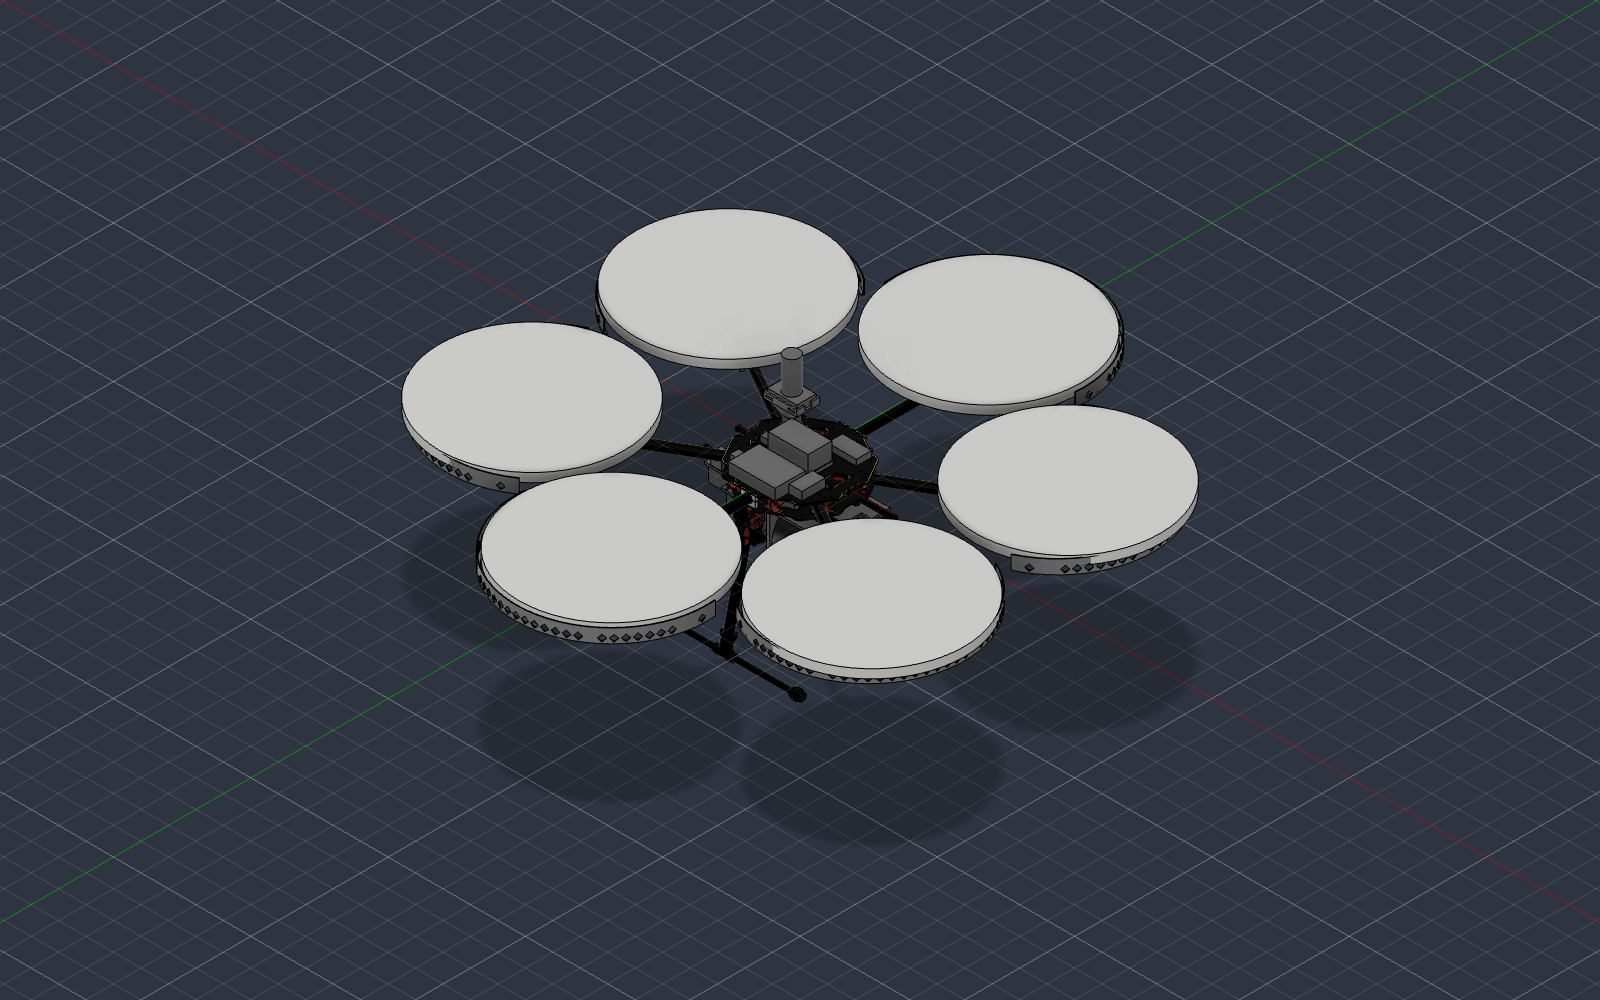
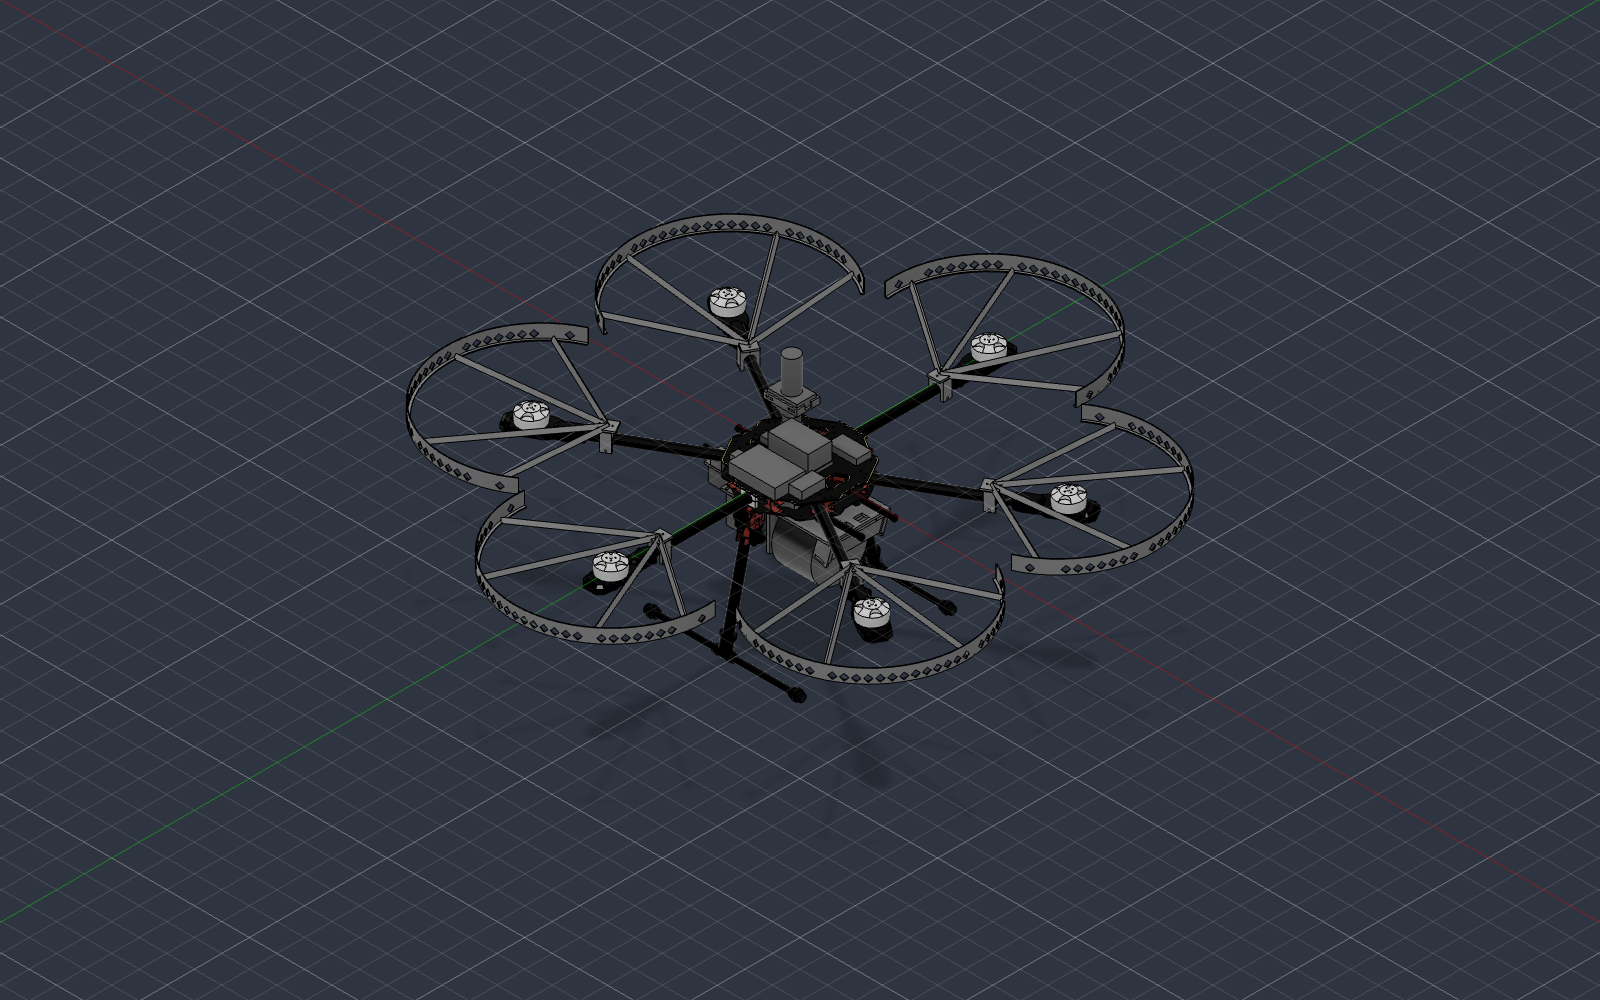
readme with pictures of every part and both drones

diff --git a/README.md b/README.md
@@ -1,70 +1,71 @@
 # Drone Construction
 
-LiDRON's drone models and build requirements.
+LiDRON's drone models and the parts we 3D print for them. Two drones: Widow (test drone) and Huntsman (carries the LiDAR).
 
-| I want to... | Go to |
-|---|---|
-| Print a part | `3D Models/Widow/Printed Parts/<part>/`, open the `.3mf` in Anycubic Slicer Next |
-| See the whole drone | `3D Models/Widow/Full Drone/widow-full-drone.f3d`, open in Fusion |
-| Know Widow's parts, sizes and weights | [`3D Models/Widow/README.md`](3D%20Models/Widow/README.md) |
-| Know Huntsman's parts, sizes, weights and LiDAR wiring | [`3D Models/Huntsman/README.md`](3D%20Models/Huntsman/README.md) |
-| Know what to build next | [Issues](https://github.com/LiDRON7/Drone-Construction/issues): one user story or task each |
+## Widow
 
-<img src="3D%20Models/Widow/Full%20Drone/widow-full-drone-preview.png" width="600" alt="Widow, the full drone model">
+Storm Drone 6 V3. Parts, sizes and weights: [Widow README](3D%20Models/Widow/README.md).
 
-## Printed parts (Widow)
+<img src="3D%20Models/Widow/Full%20Drone/widow-full-drone-preview.png" width="420" alt="Widow, the whole drone"> <img src="3D%20Models/Widow/widow-top-view.png" width="300" alt="Widow from above, arms numbered">
 
-| | Part | Print | Material |
+| Picture | Part | Print | What it does |
 |---|---|---|---|
-| <img src="3D%20Models/Widow/Printed%20Parts/Propeller%20Guard/propeller-guard-preview.png" width="160"> | [Propeller Guard](3D%20Models/Widow/Printed%20Parts/Propeller%20Guard) | 6 | PLA or PETG |
-| <img src="3D%20Models/Widow/Printed%20Parts/Landing%20Leg/landing-leg-preview.png" width="160"> | [Landing Leg](3D%20Models/Widow/Printed%20Parts/Landing%20Leg) (one mount on the battery plate for both legs, the battery and the camera, plus the feet) | 1 mount, 2 feet | PETG |
-| <img src="3D%20Models/Widow/Printed%20Parts/GPS%20Mast/gps-mast-preview.png" width="160"> | [GPS Mast](3D%20Models/Widow/Printed%20Parts/GPS%20Mast) | 1 | PETG |
+| <img src="3D%20Models/Widow/Printed%20Parts/Landing%20Leg/landing-leg-preview.png" width="220"> | [Landing Leg](3D%20Models/Widow/Printed%20Parts/Landing%20Leg) | 1 mount, 2 feet | Holds both legs, the battery and the camera |
+| <img src="3D%20Models/Widow/Printed%20Parts/GPS%20Mast/gps-mast-preview.png" width="220"> | [GPS Mast](3D%20Models/Widow/Printed%20Parts/GPS%20Mast) | 1 | Lifts the GPS above the electronics |
+| <img src="3D%20Models/Widow/Printed%20Parts/Propeller%20Guard/propeller-guard-preview.png" width="220"> | [Propeller Guard](3D%20Models/Widow/Printed%20Parts/Propeller%20Guard) | 6 | One per prop, held by the motor screws |
 
-## Printed parts (Huntsman)
+## Huntsman
 
-| | Part | Print | Material |
+Tarot 680 PRO with the Velodyne Puck LITE. Parts, sizes, weights and LiDAR wiring: [Huntsman README](3D%20Models/Huntsman/README.md).
+
+<img src="3D%20Models/Huntsman/Full%20Drone/huntsman-full-drone-preview.png" width="600" alt="Huntsman, the whole drone">
+
+<img src="3D%20Models/Huntsman/Full%20Drone/huntsman-payload-closeup.png" width="360" alt="Under Huntsman: LiDAR, battery and camera on the payload carrier"> <img src="3D%20Models/Huntsman/Full%20Drone/huntsman-guard-closeup.png" width="360" alt="Huntsman propeller guards on the arms">
+
+| Picture | Part | Print | What it does |
 |---|---|---|---|
-| <img src="3D%20Models/Huntsman/Printed%20Parts/Payload%20Carrier/payload-carrier-preview.png" width="160"> | [Payload Carrier](3D%20Models/Huntsman/Printed%20Parts/Payload%20Carrier) (hangs from the Tarot's payload rods: holds the Puck LITE, battery, camera and LiDAR interface box) | 1 carrier, 6 rod clamps | PETG |
-| <img src="3D%20Models/Huntsman/Printed%20Parts/Propeller%20Guard/propeller-guard-preview.png" width="160"> | [Propeller Guard](3D%20Models/Huntsman/Printed%20Parts/Propeller%20Guard) (13" props; clamps to the arm tube) | 6 guards, 6 clamps | PETG |
-| | GPS Mast: same as Widow's | 1 | PETG |
+| <img src="3D%20Models/Huntsman/Printed%20Parts/Payload%20Carrier/payload-carrier-preview.png" width="220"> | [Payload Carrier](3D%20Models/Huntsman/Printed%20Parts/Payload%20Carrier) | 1 carrier, 6 rod clamps | Hangs under the frame and holds the LiDAR, battery, camera and LiDAR interface box |
+| <img src="3D%20Models/Huntsman/Printed%20Parts/Propeller%20Guard/propeller-guard-preview.png" width="220"> | [Propeller Guard](3D%20Models/Huntsman/Printed%20Parts/Propeller%20Guard) | 6 guards, 6 clamps | One per 13" prop, clamped to the arm tube |
+| | GPS Mast | 1 | Same print as Widow's |
 
-Each part's folder has the same five files:
+Print everything in PETG. Use PLA only for test prints.
 
-- `.3mf`: print job for our Kobra 2 Max, settings already set
-- `.gcode`: goes straight to the Kobra 2 Max
-- `.stl`: print on another printer, or click it on GitHub to spin it in 3D
-- `.step`: edit it in Fusion or any CAD program
-- `-preview.png`: the picture above
+## Print a part
+
+Open the part's folder and pick a file:
+
+- `.gcode` goes straight to our Kobra 2 Max
+- `.3mf` opens in Anycubic Slicer Next with the settings already set
+- `.stl` is for any other printer (click it on GitHub to spin it in 3D)
+- `.step` opens in Fusion or any CAD program
 
 ## Upload a new or changed file
 
 1. Open the folder the file belongs in.
-2. Click **Add file**, then **Upload files**, and drag your files in.
-3. Write one line about what changed, then click **Commit changes**.
+2. Click Add file, then Upload files, and drag your files in.
+3. Write one line about what changed, then click Commit changes.
 
-Changing a part? Upload it with **the same name**. Don't add `v2` or `final`, and don't make an "old" folder.
-
-Need an earlier version? Open the file, click **History**, pick the change, download.
+Keep the same file name when you change a part. No `v2`, no `final`, no "old" folders. GitHub keeps every earlier version: open the file, click History, pick the change.
 
 ## Where things are
 
 ```
 3D Models/
 ├── Widow/
-│   ├── Printed Parts/     parts we print (above)
+│   ├── Printed Parts/     parts we print
 │   ├── Reference Parts/   models of parts we buy, to design holders around
 │   └── Full Drone/        everything put together
-├── Huntsman/              same layout (Reference Parts has the Tarot 680 PRO frame model)
-└── Fusion Scripts/        the scripts that build the models (huntsman_*.py for Huntsman)
+├── Huntsman/              same folders (Reference Parts has the Tarot 680 PRO frame)
+└── Fusion Scripts/        the scripts that build the models
 ```
 
-Reference parts start with their kind, so they sort together: `frame-`, `propulsion-`, `power-`, `flight-controller-`,
+Reference parts start with their kind so they sort together: `frame-`, `propulsion-`, `power-`, `flight-controller-`,
 `gps-`, `radio-`, `computer-`, `camera-`, `misc-`. Anything named `placeholder` is a rough block until we measure it.
 
-## Changing a model's shape
+## Change a part's size
 
-Only needed to change sizes. Each model has a script in `Fusion Scripts` with the same name (`landing_leg.py`
-builds the landing leg). With Fusion open and the
+Each part has a script in `Fusion Scripts` (`landing_leg.py` builds Widow's landing leg, `huntsman_*.py` build
+Huntsman's parts). Sizes are at the top of each script. With Fusion open and the
 [Fusion360MCP add-in](https://github.com/faust-machines/fusion360-mcp-server) running:
 
 ```
@@ -72,7 +73,7 @@ cd "3D Models/Fusion Scripts"
 python3 run_in_fusion.py execute_code -code landing_leg.py
 ```
 
-Sizes are at the top of each script. The scripts check strength and fit, and stop with a message if something's off.
-Then run `full_drone.py` so the whole drone picks up the change.
+The scripts check strength and fit and stop with a message if something is off. Then run `full_drone.py` (or
+`huntsman_full_drone.py`) so the whole drone picks up the change.
 
 Stuck? Ask Alex or Devlin.
